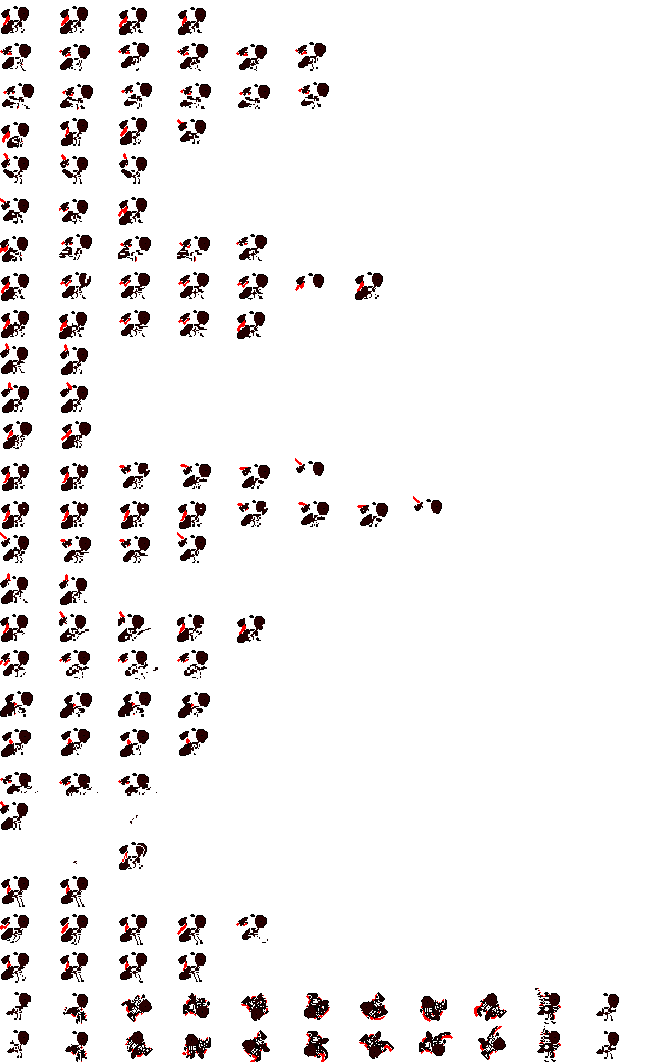
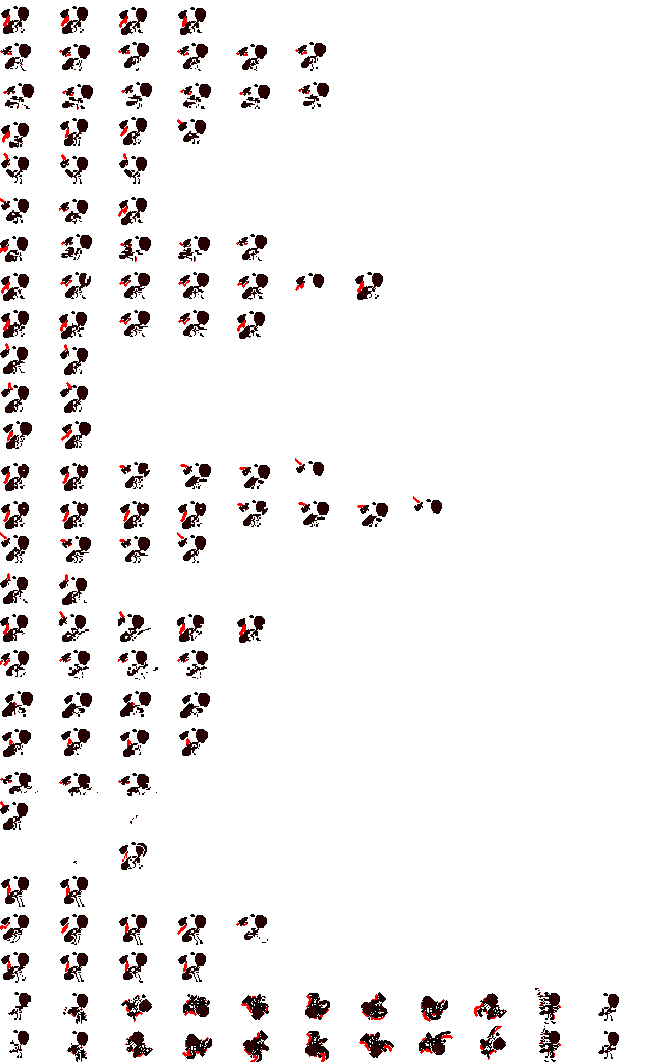
Apprenti tengu : manteau-cape rapproché du dos de deux pixels
Tout le bloc du manteau est décalé de deux pixels vers le dos, sans changer
de forme (FOX_TAIL_IN) : il dépasse d'autant moins derrière lui (demande de
Raph).

Claude-Session: https://claude.ai/code/session_01A2iwx41GJ1yT1ZEu9VhwRg

diff --git a/docs/carte-mentale/index.html b/docs/carte-mentale/index.html
@@ -270,7 +270,7 @@ const BRANCHES = [
     keys: ['2 dégâts, recul 170 px/s', '0,35 s avant d\'en relancer un', 'Portée équivalente au sabre'],
     files: ['src/game/fall.js', 'tools/kage_forge/rig.py'], see: ['ennemi-chute'] },
   { id: 'kage-skins', t: 'Skins de KAGE', s: 'encours', d: 'Encre, le paysan, l’apprenti tengu, le Samouraï déchu, le pêcheur, Lumière d’or ; cinq autres à reprendre un par un',
-    txt: "Un skin = une palette par slots (même animation, même boîte de collision, rien ne change dans le jeu) et des accessoires, posés pose par pose : sur la tête (grand sugegasa tressé, dessiné à la main), dans le dos (le mino de feuilles et de paille du voyageur, qui suit le bord du dos, s'évase jusqu'aux chevilles et s'effiloche ; le tonnelet doré, le panier, le bambou et le manche d'outil du paysan), sur le corps (cordon doré en pointillés et boucle de ceinture, pan de tunique, pantalon rapiécé, kimono semé de feuilles). Les pans du bandeau sont rangés (le voyageur garde un ruban qui flotte). Chaque skin a sa planche d'animation complète (la forge exporte ses accessoires sur un calque d'index, kage_acc_<skin>_index.png, fondu par le jeu sur la planche recolorée). Planches de Raph (14 novembre 2026) : après un premier essai trop rapide des dix skins entourés, on reprend un par un ; faits : le voyageur (100 ryō, retiré du jeu le 16 novembre 2026 à la demande de Raph : sa planche reste dans docs/kage/skins/) et le paysan des rizières (100 ryō) ; le vagabond (50 ryō) est retiré du jeu (14 novembre 2026) ; Lumière d'or (légendaire, 600 ryō, 15 novembre 2026) : ninja bleu nuit, bandeau d'or et ses pans en flammes, étoffe dorée sur l'épaule, cordon et pans d'or à la ceinture, grande auréole à croix de lumière (sans contour) ; sabre à lame d'or et poignée de cuir, arc du coup d'or, shurikens dorés (projectileColors) ; en jeu (src/game/aura.js), un orbe doré qui flotte devant lui, deux volutes de lumière autour des jambes, des étincelles ; une légère traînée d'or derrière le coup d'épée (les images précédentes de la lame) des silhouettes dorées derrière le dash , trois reflets et un peu de poussière d'or étincelante derrière chaque shuriken (champ trail, Shurikens.dust, maskSheet dans sprites.js) ; le Samouraï déchu (rare, 450 ryō, 16 novembre 2026) : kabuto laqué à la bombe haute, cornes d'or en croissant et cimier rouge, bande rouge et ses deux pans au vent ; épaulière laquée bordée d'or, au haut carré, resserrée sur l'épaule (elle ne dépasse plus que d'un pixel : Raph la confondait avec la cape) ; cape rouge en lambeaux, dessinée à la main pour chaque vent (lu sur les pans du bandeau de la pose) : au repos plaquée dans le dos des épaules aux genoux, trois pixels au plus derrière l'épaule, angles nets, une entaille sur le côté, le bas en pointes ; en course elle vole haut derrière les épaules ; en chute elle se soulève ; col d'or en V, ceinture à plaques d'or ; tassette avant bordée d'or en U, tassette arrière clouée d'or ; hakama sombre jusqu'à la jambe levée d'un coup de pied, chaussures à bande rouille ; le bras arrière rapproché du corps d'un pixel (demandes de Raph) ; sa barre de vie passe au-dessus des cornes (champ barLift). Le même jour : un calque d'accessoires sait effacer (marque ERASE, index 255 : les pans rangés, le bras déplacé) ; jusque-là, ce qu'un accessoire retirait restait visible en jeu (les pans du voyageur, du paysan et de Lumière d'or) ; et en arène, le ninja porte enfin le skin de l'aventure en cours. Le pêcheur (épique, 500 ryō, 16 novembre 2026) : sugegasa à bande de tressage gris-bleu, pan bleu sous le bord, tenue bleu nuit semée d'éclats dorés, corde tressée claire en bandoulière, une canne fine rangée dans le dos, qui dépasse au-dessus du chapeau, un petit fil pendu à sa pointe (elle quitte le dos quand il la prend pour frapper), un filet rond sur le dos tenu à la hanche, qui lévite avec la vitesse (un peu en course ; en sprint et en dash il monte, part en arrière, penche et laisse trois traits de vitesse ; plus petit pendant les saltos), une canne à pêche en bambou à la place du sabre (nœuds, poignée de liège, scion, ligne et flotteur rouge et blanc ; l'arc du coup devient une ligne d'eau), des micro-poissons en guise de shurikens (agrandis ×1,4 le 17 novembre 2026 ; planche kage_fish, cases de 16 px, tournés dans le sens du vol, plantés la tête la première, des micro-gouttelettes d'eau derrière eux ; un petit poisson dans la main au lancer), toiles de paille aux chevilles, marque dorée sur le masque. Les pans du bandeau qui remontent derrière la tête (chute, glissade murale) sont désormais rangés aussi (ribbon : paysan, Lumière d'or). L'apprenti tengu (n° 13, peu commun, 350 ryō, 17 novembre 2026) : masque blanc lisse à œil unique, une spirale rouge d'un pixel qui part de l'œil, s'enroule vers l'extérieur et finit dans le bord bas du masque (choisi par Raph le 17 novembre 2026 parmi six idées, docs/kage/skins/tengu_masques.png, après l'abandon du masque de renard), mèche nouée, rubans blanc et rouge effilés au vent, boucle dorée à la ceinture, veste blanche à la poitrine rouge, cordelette en damier, pantalon blanc à bande rouge, tibias sombres, long pan du manteau rouge bordé de blanc, qui fait cape : il part du milieu du dos, large contre le dos, s'arrête au-dessus des pieds, reste près du dos en course (sans traîner comme une queue) et se ramasse pendant les saltos ; rubans raccourcis. Les cinq autres (ninja blanc, écarlate, Ombre pourpre, Souffle de l'hiver, Renard blanc) attendent en brouillon (tools/kage_forge/skins_brouillon/), hors du jeu. Nouveaux slots : gear (b B i) et gear2 (j J).",
+    txt: "Un skin = une palette par slots (même animation, même boîte de collision, rien ne change dans le jeu) et des accessoires, posés pose par pose : sur la tête (grand sugegasa tressé, dessiné à la main), dans le dos (le mino de feuilles et de paille du voyageur, qui suit le bord du dos, s'évase jusqu'aux chevilles et s'effiloche ; le tonnelet doré, le panier, le bambou et le manche d'outil du paysan), sur le corps (cordon doré en pointillés et boucle de ceinture, pan de tunique, pantalon rapiécé, kimono semé de feuilles). Les pans du bandeau sont rangés (le voyageur garde un ruban qui flotte). Chaque skin a sa planche d'animation complète (la forge exporte ses accessoires sur un calque d'index, kage_acc_<skin>_index.png, fondu par le jeu sur la planche recolorée). Planches de Raph (14 novembre 2026) : après un premier essai trop rapide des dix skins entourés, on reprend un par un ; faits : le voyageur (100 ryō, retiré du jeu le 16 novembre 2026 à la demande de Raph : sa planche reste dans docs/kage/skins/) et le paysan des rizières (100 ryō) ; le vagabond (50 ryō) est retiré du jeu (14 novembre 2026) ; Lumière d'or (légendaire, 600 ryō, 15 novembre 2026) : ninja bleu nuit, bandeau d'or et ses pans en flammes, étoffe dorée sur l'épaule, cordon et pans d'or à la ceinture, grande auréole à croix de lumière (sans contour) ; sabre à lame d'or et poignée de cuir, arc du coup d'or, shurikens dorés (projectileColors) ; en jeu (src/game/aura.js), un orbe doré qui flotte devant lui, deux volutes de lumière autour des jambes, des étincelles ; une légère traînée d'or derrière le coup d'épée (les images précédentes de la lame) des silhouettes dorées derrière le dash , trois reflets et un peu de poussière d'or étincelante derrière chaque shuriken (champ trail, Shurikens.dust, maskSheet dans sprites.js) ; le Samouraï déchu (rare, 450 ryō, 16 novembre 2026) : kabuto laqué à la bombe haute, cornes d'or en croissant et cimier rouge, bande rouge et ses deux pans au vent ; épaulière laquée bordée d'or, au haut carré, resserrée sur l'épaule (elle ne dépasse plus que d'un pixel : Raph la confondait avec la cape) ; cape rouge en lambeaux, dessinée à la main pour chaque vent (lu sur les pans du bandeau de la pose) : au repos plaquée dans le dos des épaules aux genoux, trois pixels au plus derrière l'épaule, angles nets, une entaille sur le côté, le bas en pointes ; en course elle vole haut derrière les épaules ; en chute elle se soulève ; col d'or en V, ceinture à plaques d'or ; tassette avant bordée d'or en U, tassette arrière clouée d'or ; hakama sombre jusqu'à la jambe levée d'un coup de pied, chaussures à bande rouille ; le bras arrière rapproché du corps d'un pixel (demandes de Raph) ; sa barre de vie passe au-dessus des cornes (champ barLift). Le même jour : un calque d'accessoires sait effacer (marque ERASE, index 255 : les pans rangés, le bras déplacé) ; jusque-là, ce qu'un accessoire retirait restait visible en jeu (les pans du voyageur, du paysan et de Lumière d'or) ; et en arène, le ninja porte enfin le skin de l'aventure en cours. Le pêcheur (épique, 500 ryō, 16 novembre 2026) : sugegasa à bande de tressage gris-bleu, pan bleu sous le bord, tenue bleu nuit semée d'éclats dorés, corde tressée claire en bandoulière, une canne fine rangée dans le dos, qui dépasse au-dessus du chapeau, un petit fil pendu à sa pointe (elle quitte le dos quand il la prend pour frapper), un filet rond sur le dos tenu à la hanche, qui lévite avec la vitesse (un peu en course ; en sprint et en dash il monte, part en arrière, penche et laisse trois traits de vitesse ; plus petit pendant les saltos), une canne à pêche en bambou à la place du sabre (nœuds, poignée de liège, scion, ligne et flotteur rouge et blanc ; l'arc du coup devient une ligne d'eau), des micro-poissons en guise de shurikens (agrandis ×1,4 le 17 novembre 2026 ; planche kage_fish, cases de 16 px, tournés dans le sens du vol, plantés la tête la première, des micro-gouttelettes d'eau derrière eux ; un petit poisson dans la main au lancer), toiles de paille aux chevilles, marque dorée sur le masque. Les pans du bandeau qui remontent derrière la tête (chute, glissade murale) sont désormais rangés aussi (ribbon : paysan, Lumière d'or). L'apprenti tengu (n° 13, peu commun, 350 ryō, 17 novembre 2026) : masque blanc lisse à œil unique, une spirale rouge d'un pixel qui part de l'œil, s'enroule vers l'extérieur et finit dans le bord bas du masque (choisi par Raph le 17 novembre 2026 parmi six idées, docs/kage/skins/tengu_masques.png, après l'abandon du masque de renard), mèche nouée, rubans blanc et rouge effilés au vent, boucle dorée à la ceinture, veste blanche à la poitrine rouge, cordelette en damier, pantalon blanc à bande rouge, tibias sombres, long pan du manteau rouge bordé de blanc, qui fait cape, rapproché du dos de deux pixels : il part du milieu du dos, large contre le dos, s'arrête au-dessus des pieds, reste près du dos en course (sans traîner comme une queue) et se ramasse pendant les saltos ; rubans raccourcis. Les cinq autres (ninja blanc, écarlate, Ombre pourpre, Souffle de l'hiver, Renard blanc) attendent en brouillon (tools/kage_forge/skins_brouillon/), hors du jeu. Nouveaux slots : gear (b B i) et gear2 (j J).",
     keys: ['6 skins en jeu', '5 en brouillon', 'gear b B i · gear2 j J', 'effacer : index 255'],
     files: ['assets/characters/kage/skins/', 'src/engine/sprites.js', 'tools/kage_forge/accessories.py', 'tools/kage_forge/palette.py', 'tools/kage_forge/skin_design.py', 'tools/kage_forge/skin_sheets.py', 'tools/kage_forge/skins_brouillon/', 'src/game/shop.js', 'src/game/aura.js', 'docs/SKINS.md'],
     links: [['Le paysan, face à son modèle', 'docs/kage/skins/paysan_planche.png'], ['Lumière d’or, face à son modèle', 'docs/kage/skins/or_planche.png'], ['Le Samouraï déchu, face à son modèle', 'docs/kage/skins/samourai_planche.png'], ['Le pêcheur, face à son modèle', 'docs/kage/skins/pecheur_planche.png'], ['L’apprenti tengu, face à son modèle', 'docs/kage/skins/tengu_planche.png'], ['L’apprenti tengu : les six idées de masques', 'docs/kage/skins/tengu_masques.png'], ['Le pêcheur, toutes les animations', 'docs/kage/skins/planche_pecheur.png'], ['Le Samouraï déchu, toutes les animations', 'docs/kage/skins/planche_samourai.png']], see: ['sys-boutique', 'hab-marchand'] },

diff --git a/tools/kage_forge/accessories.py b/tools/kage_forge/accessories.py
@@ -1507,6 +1507,11 @@ FOX_TAIL = {
 }
 
 
+# tout le bloc du manteau rapproché du dos (il dépasse d'autant moins derrière lui ; demande de Raph, 17 novembre
+# 2026) : la forme ne change pas, ce qui passe derrière le corps est caché
+FOX_TAIL_IN = 2
+
+
 def fox_tail(g):
     pos = find_head(g)
     b = _belt(g)
@@ -1528,7 +1533,7 @@ def fox_tail(g):
     mask = np.zeros(g.shape, bool)
     for j, row in enumerate(rows):
         for i, c in enumerate(row):
-            x, y = xs - len(row) + 1 + i, by + dy0 + j
+            x, y = xs - len(row) + 1 + i + FOX_TAIL_IN, by + dy0 + j
             if c != "." and 0 <= x < CW and 0 <= y < CH and g[y, x] in BG:
                 g[y, x] = c
                 mask[y, x] = True
